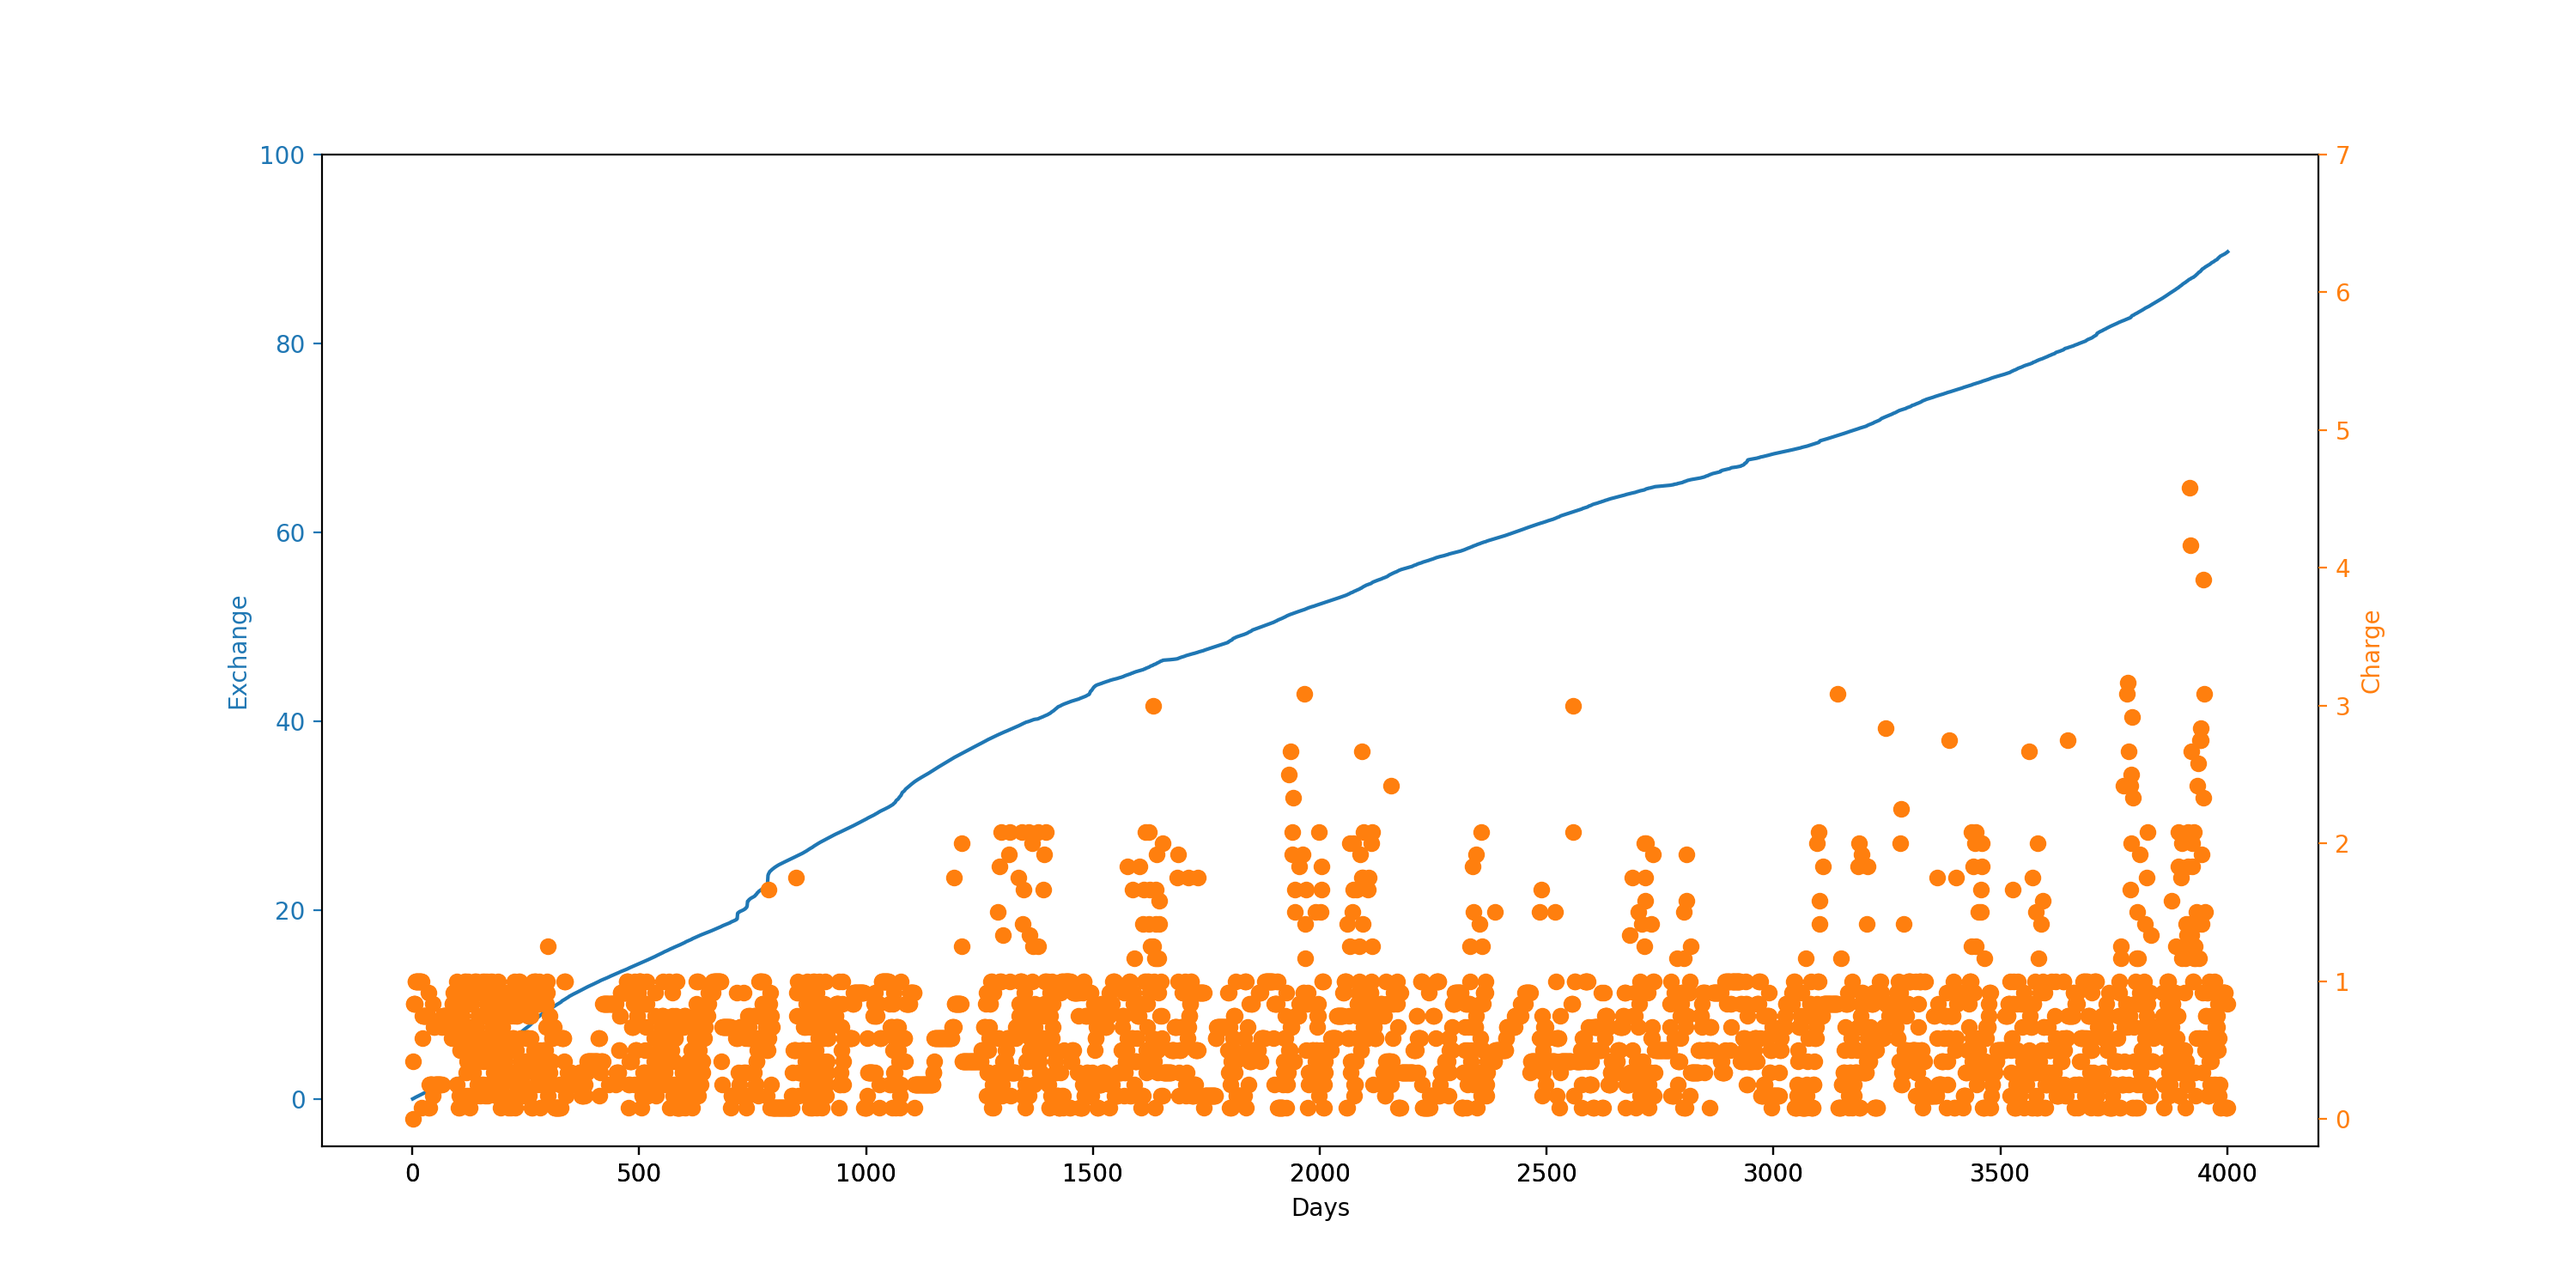
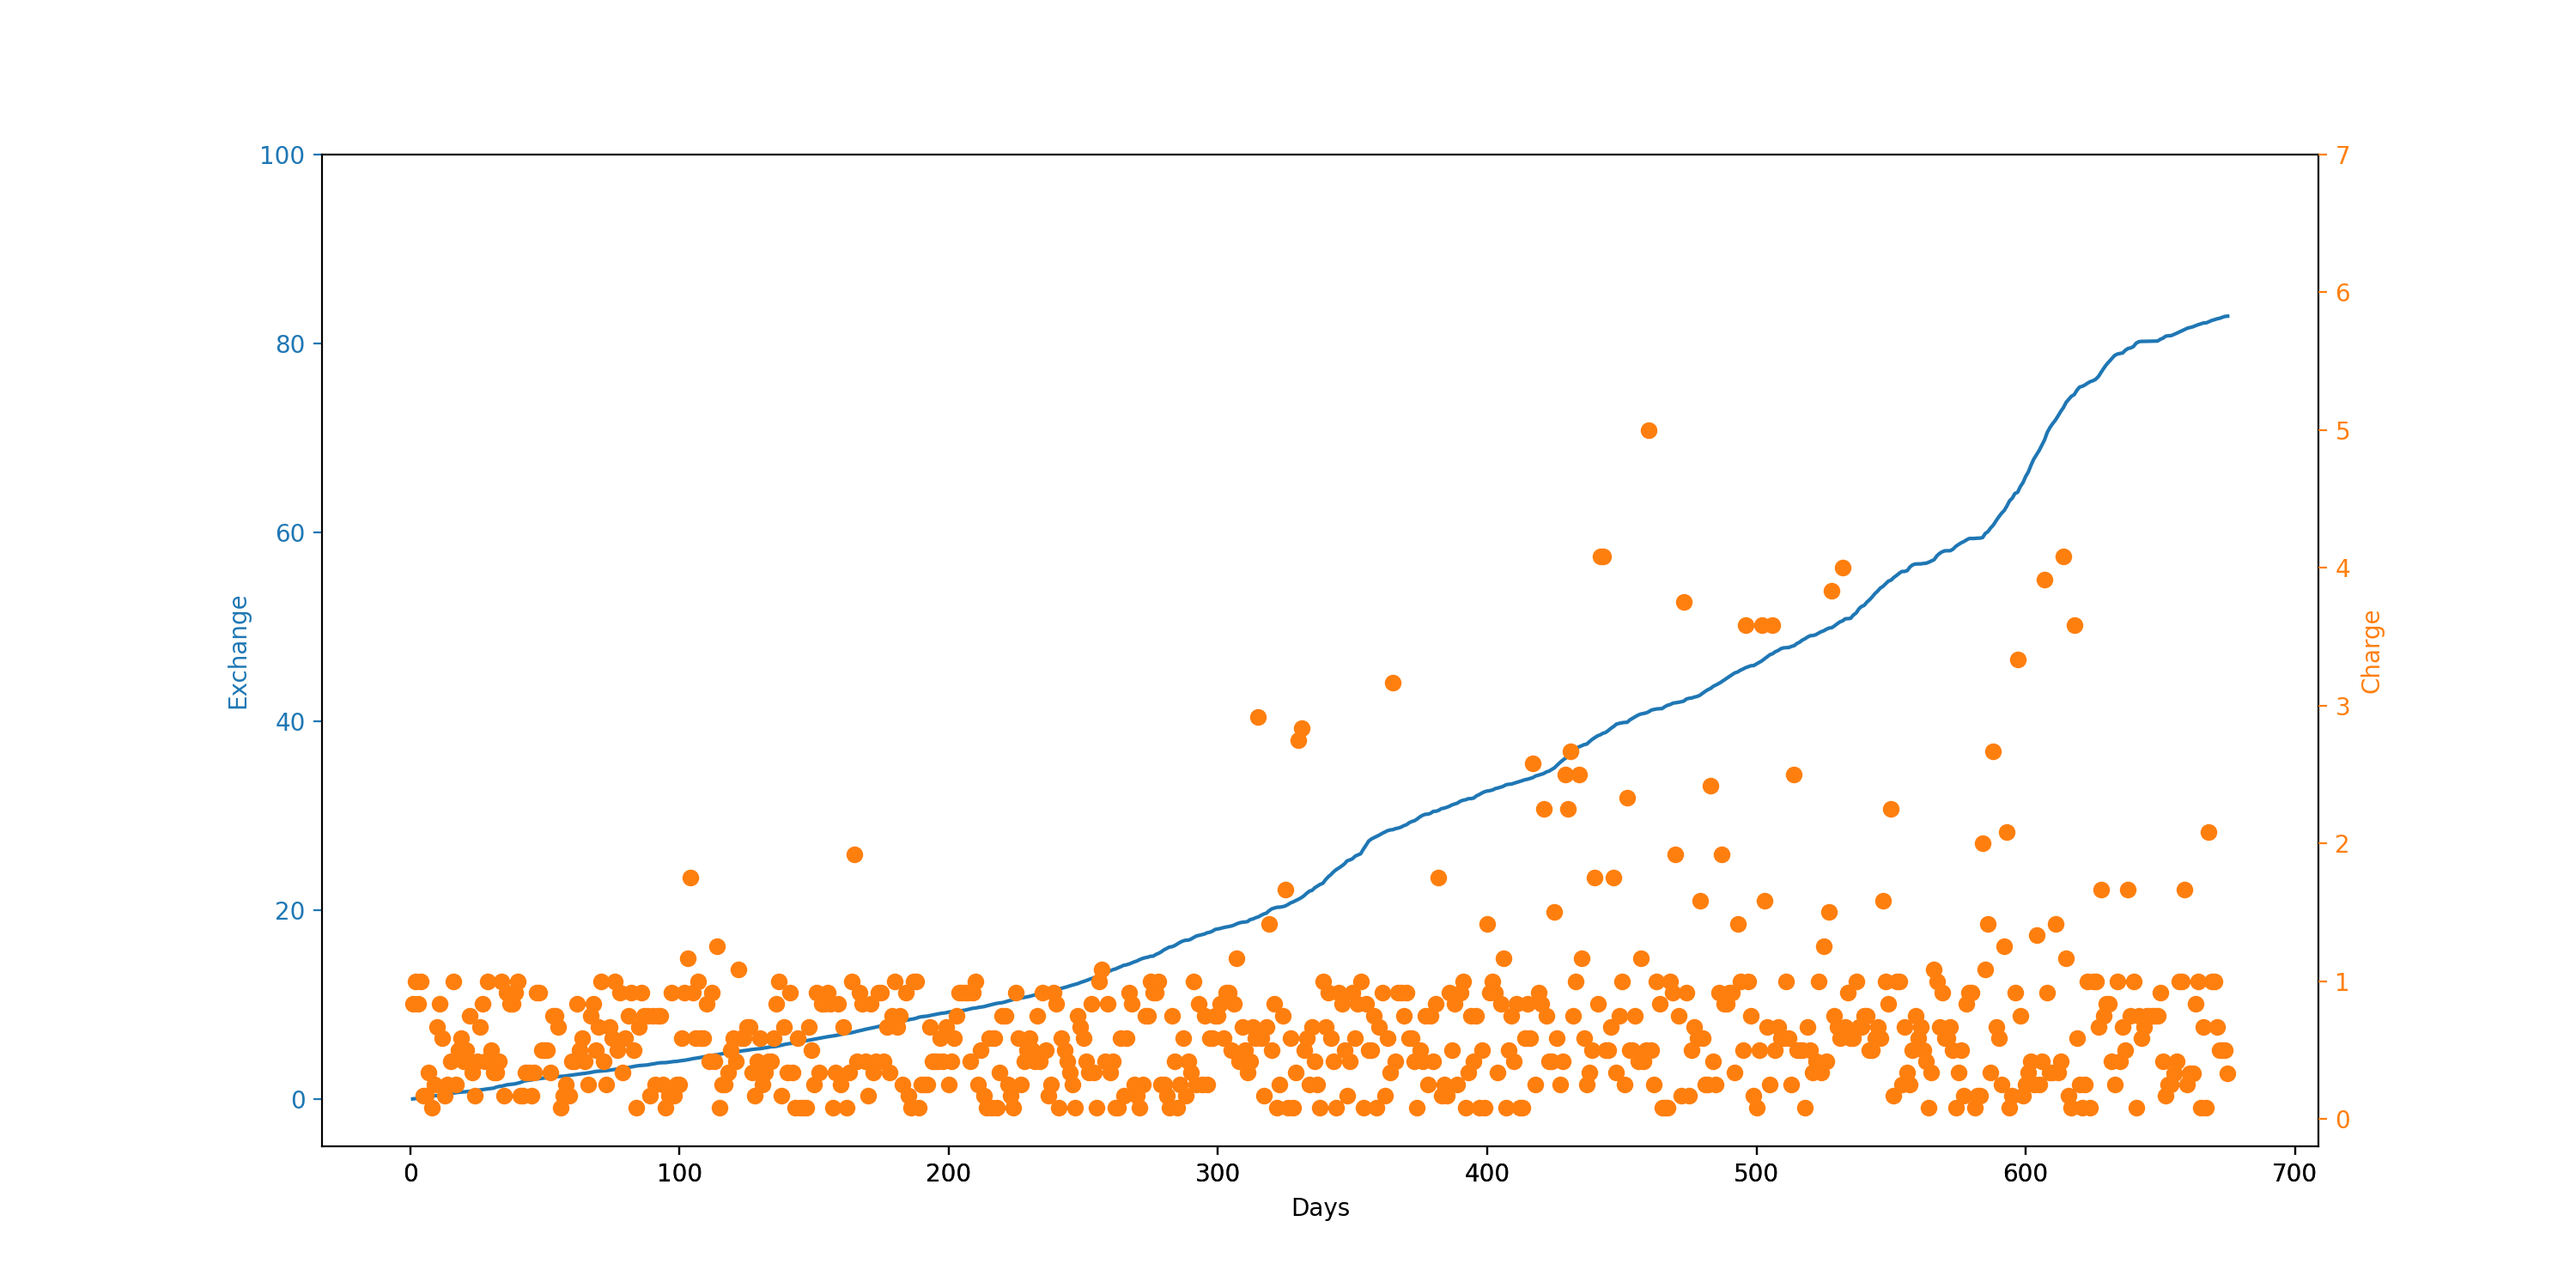
Added some comments

diff --git a/main.py b/main.py
@@ -11,7 +11,6 @@ Home_Environment = homeenv.Home_Environment
 import json
 import time
 
-
 import matplotlib.pyplot as plt
 import matplotlib.patheffects as pe
 
@@ -154,9 +153,9 @@ class DeepQNetwork(nn.Module):
         super(DeepQNetwork, self).__init__()
         
         self.input_dims = input_dims
-        self.fc1_dims = fc1_dims #First fully connected layer
-        self.fc2_dims = fc2_dims #Second fully connected layer
-        self.fc3_dims = fc3_dims #Third fully connected layer
+        self.fc1_dims = fc1_dims #First fully connected layer dimensions
+        self.fc2_dims = fc2_dims #Second fully connected layer dimensions
+        self.fc3_dims = fc3_dims #Third fully connected layer dimensions
         self.n_actions = n_actions #How many options for the Environment (House electricity choices)
 
         self.fc1 = nn.Linear(*self.input_dims, self.fc1_dims) #Linear layers
@@ -188,10 +187,10 @@ class Agent():
         self.eps_min = eps_end #ending numer of increased learning rate
         self.eps_dec = eps_dec #decrement of increased learning rate
         self.lr = lr #learning rate
-        self.input_dims = input_dims
-        self.batch_size = batch_size
-        self.action_space = [i for i in range(n_actions)]
-        self.mem_size = max_mem_size
+        self.input_dims = input_dims #Amount of states from enviroment
+        self.batch_size = batch_size #How much data to process in replay memory
+        self.action_space = [i for i in range(n_actions)] #Amount of choices
+        self.mem_size = max_mem_size 
         self.mem_cntr = 0
         self.Q_eval = DeepQNetwork(self.lr, n_actions=n_actions, input_dims=input_dims, fc1_dims=64, fc2_dims=64, fc3_dims=32)
 
@@ -273,8 +272,10 @@ def deep_q_agent(days, step_period, show, data, save, save_path, load, load_path
         done = False
         observation = env.day_init()
         while not done:
-            action = agent.choose_action(observation)
-            observation_, reward, done = env.step(action)
+            action = agent.choose_action(observation) #Calculate action or if greedy set it to random
+            #CHANGE HERE FOR REALTIME
+            observation_, reward, done = env.step(action) #Step forward (If realtime needs to be different)
+
             score += reward
             action_count[action] += 1
             agent.store_transition(observation, action, reward, observation_, done)
@@ -284,17 +285,17 @@ def deep_q_agent(days, step_period, show, data, save, save_path, load, load_path
         eps_history.append(agent.epsilon)
 
         avg_score = np.mean(scores[-100:])
-        #if i % 200 == 0:
-        #    ampere_hour = env.home_charge/3600
-        #    print(f"{np.round(env.total_sold_price/100,3)}SEK Sold and {np.round(env.total_bought_price/100,3)}SEK Bought  |  Delta = {np.round(env.total_sold_price/100 - env.total_bought_price/100,3)}kr | Charge at {np.round(ampere_hour,3)}Ah | Reward was: {np.round(reward,3)}")
-        #    print('day', i, 'score %.3f' % score,'average score %.3f' % avg_score,'epsilon %.3f' % agent.epsilon)
+        if i % 100 == 0:
+            ampere_hour = env.home_charge/3600
+            print(f"{np.round(env.total_sold_price/100,3)}SEK Sold and {np.round(env.total_bought_price/100,3)}SEK Bought  |  Delta = {np.round(env.total_sold_price/100 - env.total_bought_price/100,3)}kr | Charge at {np.round(ampere_hour,3)}Ah | Reward was: {np.round(reward,3)}")
+            print('day', i, 'score %.3f' % score,'average score %.3f' % avg_score,'epsilon %.3f' % agent.epsilon)
     ampere_hour = env.home_charge/3600
     print(f"{np.round(env.total_sold_price/100,3)}SEK Sold and {np.round(env.total_bought_price/100,3)}SEK Bought  |  Delta = {np.round(env.total_sold_price/100 - env.total_bought_price/100,3)}kr | Charge at {np.round(ampere_hour,3)}Ah")
     x = [i for i in range(days)]    
     filename = 'agent_performance.png'
     env.charge_at_time.append(env.home_charge/3600)
     env.exchange.append((env.total_sold_price-env.total_bought_price)/100)
-    
+
     mean_scores = []
     for i in range (len(scores)):
         mean_scores.append(np.mean(scores[(-5*i):]))
@@ -328,9 +329,9 @@ if __name__ == "__main__":
     data = json.load(file)
 
     save = False
-    load = False
-    save_path = "Q_Eval_Days4k_Info3h_Step10min4.pth"
-    load_path = "Q_Eval_Days4k_Info3h_Step10min4.pth"
+    load = True
+    save_path = "Q_Eval_Days4k_Info3h_Step10min6.pth"
+    load_path = "Q_Eval_Days4k_Info3h_Step10min6.pth"
 
     step = 60*60
 
@@ -339,21 +340,21 @@ if __name__ == "__main__":
 
     print("\n-----------------------------------------------------------------------------------------------\n")
     print(f'Days in data: {int((len(data)/24) -1)}')#Prints amount of days in data given
-    #print("\n-----------------------------------------------------------------------------------------------\nIf Price > 0.40:")
-    #run = if_step_sell(days, step, False, data)
-    #profit.append(run)
-    #print("\n-----------------------------------------------------------------------------------------------\nOnly sell:")
-    #run = only_sell(days, step, False, data)
-    #profit.append(run)
-    #print("\n-----------------------------------------------------------------------------------------------\nOnly buy:")
-    #run = only_buy(days, step, False, data)
-    #profit.append(run)
-    #print("\n-----------------------------------------------------------------------------------------------\nDepending on current price compared to price in 1 and 2 hours")
-    #run = test_rewards(days, step, False, data)
-    #profit.append(run)
-    #print("\n-----------------------------------------------------------------------------------------------\nDQN with Adam Optimzer and Experience Replay, Training not loaded")
-    #run = deep_q_agent(days, step, False, data, save=False, save_path=save_path, load=False, load_path=load_path)
-    #profit.append(run)
+    print("\n-----------------------------------------------------------------------------------------------\nIf Price > 0.40:")
+    run = if_step_sell(days, step, False, data)
+    profit.append(run)
+    print("\n-----------------------------------------------------------------------------------------------\nOnly sell:")
+    run = only_sell(days, step, False, data)
+    profit.append(run)
+    print("\n-----------------------------------------------------------------------------------------------\nOnly buy:")
+    run = only_buy(days, step, False, data)
+    profit.append(run)
+    print("\n-----------------------------------------------------------------------------------------------\nDepending on current price compared to price in 1 and 2 hours")
+    run = test_rewards(days, step, False, data)
+    profit.append(run)
+    print("\n-----------------------------------------------------------------------------------------------\nDQN with Adam Optimzer and Experience Replay, Training not loaded")
+    run = deep_q_agent(days, step, False, data, save=False, save_path=save_path, load=False, load_path=load_path)
+    profit.append(run)
     print("\n-----------------------------------------------------------------------------------------------\nDQN with Adam Optimzer and Experience Replay, Training Loaded")
     run = deep_q_agent(days, step, False, data, save=save, save_path=save_path, load=load, load_path=load_path)
     profit.append(run)
@@ -363,9 +364,6 @@ if __name__ == "__main__":
 
     fig, ax = plt.subplots()
     
-    #bar_labels = ['red', 'blue', '_red', 'orange']
-    #bar_colors = ['tab:red', 'tab:blue', 'tab:red', 'tab:orange']
-
     ax.bar(model, profit )#label=bar_labels, color=bar_colors)
 
     ax.set_ylabel('Profit SEK')
